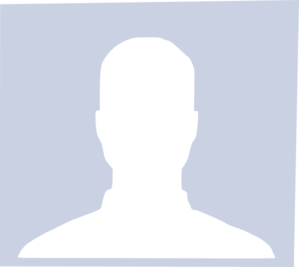
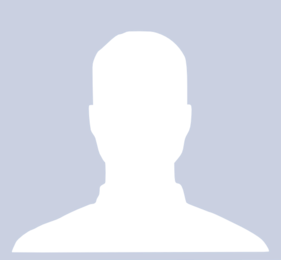
회원 이용 현황 작업 중

diff --git a/src/main/java/yi_java3st_3team/ui/content/MemberUserCdtPanel.java b/src/main/java/yi_java3st_3team/ui/content/MemberUserCdtPanel.java
@@ -3,15 +3,22 @@ package yi_java3st_3team.ui.content;
 import javax.swing.JPanel;
 import java.awt.BorderLayout;
 import java.awt.GridLayout;
+import java.awt.Image;
+
 import javax.swing.JLabel;
 import java.awt.Dimension;
 import javax.swing.SwingConstants;
 import java.awt.Font;
 import javax.swing.border.EmptyBorder;
 import javax.swing.BoxLayout;
+import javax.swing.ImageIcon;
 
 @SuppressWarnings("serial")
 public class MemberUserCdtPanel extends JPanel {
+	private Dimension picDimesion = new Dimension(150, 200);
+	private String defaultImg = getClass().getClassLoader().getResource("no-image.png").getPath();
+	private JLabel lblMbmImg;
+	private String picPath;
 
 	public MemberUserCdtPanel() {
 
@@ -28,21 +35,27 @@ public class MemberUserCdtPanel extends JPanel {
 		JPanel pMbmImg = new JPanel();
 		pMbmImg.setBorder(new EmptyBorder(0, 0, 10, 0));
 		pWest.add(pMbmImg);
-		pMbmImg.setLayout(new BorderLayout(0, 0));
+		pMbmImg.setLayout(new BoxLayout(pMbmImg, BoxLayout.Y_AXIS));
 		
 		JPanel pImgNorth = new JPanel();
-		pImgNorth.setBorder(new EmptyBorder(0, 0, 10, 0));
-		pMbmImg.add(pImgNorth, BorderLayout.NORTH);
+		pImgNorth.setBorder(new EmptyBorder(0, 0, 0, 0));
+		pMbmImg.add(pImgNorth);
 		
-		JLabel lblMbmImg = new JLabel("img");
+		lblMbmImg = new JLabel();
 		lblMbmImg.setHorizontalAlignment(SwingConstants.CENTER);
-		lblMbmImg.setPreferredSize(new Dimension(150, 200));
-		pImgNorth.add(lblMbmImg, BorderLayout.CENTER);
+		lblMbmImg.setPreferredSize(picDimesion);
+		lblMbmImg.setSize(picDimesion);
+		setPicStr(defaultImg);
+		pImgNorth.setLayout(new GridLayout(0, 1, 0, 0));
+		pImgNorth.add(lblMbmImg);
+		
+		JPanel pGrade = new JPanel();
+		pMbmImg.add(pGrade);
 		
 		JLabel lblGrade = new JLabel("등급");
 		lblGrade.setFont(new Font("맑은 고딕", Font.BOLD, 16));
 		lblGrade.setHorizontalAlignment(SwingConstants.CENTER);
-		pMbmImg.add(lblGrade, BorderLayout.SOUTH);
+		pGrade.add(lblGrade);
 		
 		JPanel pLendBookCnt = new JPanel();
 		pLendBookCnt.setBorder(new EmptyBorder(50, 0, 30, 0));
@@ -102,4 +115,15 @@ public class MemberUserCdtPanel extends JPanel {
 		pTotalList.add(pTotlaTblList, BorderLayout.CENTER);
 	}
 
+	
+	private void setPicByte(byte[] bookImg) {
+		lblMbmImg.setIcon(new ImageIcon(new ImageIcon(bookImg).getImage().getScaledInstance((int)picDimesion.getWidth(), 
+				(int)picDimesion.getHeight(), Image.SCALE_DEFAULT)));
+	}
+
+	private void setPicStr(String imgPath) {
+		picPath = imgPath;
+		lblMbmImg.setIcon(new ImageIcon(new ImageIcon(imgPath).getImage()
+				.getScaledInstance((int) picDimesion.getWidth(), (int) picDimesion.getHeight(), Image.SCALE_DEFAULT)));
+	}
 }

diff --git a/src/main/java/yi_java3st_3team/ui/MainFrame.java b/src/main/java/yi_java3st_3team/ui/MainFrame.java
@@ -12,6 +12,7 @@ import javax.swing.UIManager;
 import javax.swing.border.EmptyBorder;
 
 import yi_java3st_3team.ui.content.BookManagerPanel;
+import yi_java3st_3team.ui.content.MemberUserCdtPanel;
 import yi_java3st_3team.ui.content.RecomBookAddPanel;
 import yi_java3st_3team.ui.content.RecomPanel;
 
@@ -112,7 +113,7 @@ public class MainFrame extends JFrame implements ActionListener {
 			frame1 = new JFrame();
 			frame1.setTitle("추천도서 등록");
 			frame1.setBounds(50, 50, 1000, 700);
-			frame1.getContentPane().add(new RecomPanel());
+			frame1.getContentPane().add(new BookManagerPanel());
 			frame1.setVisible(true);
 			frame1.setDefaultCloseOperation(JFrame.DISPOSE_ON_CLOSE);
 		} else {
@@ -123,7 +124,7 @@ public class MainFrame extends JFrame implements ActionListener {
 			frame1 = new JFrame();
 			frame1.setTitle("추천도서 등록");
 			frame1.setBounds(50, 50, 1000, 700);
-			frame1.getContentPane().add(new RecomPanel());
+			frame1.getContentPane().add(new BookManagerPanel());
 			frame1.setVisible(true);
 		}
 	}
